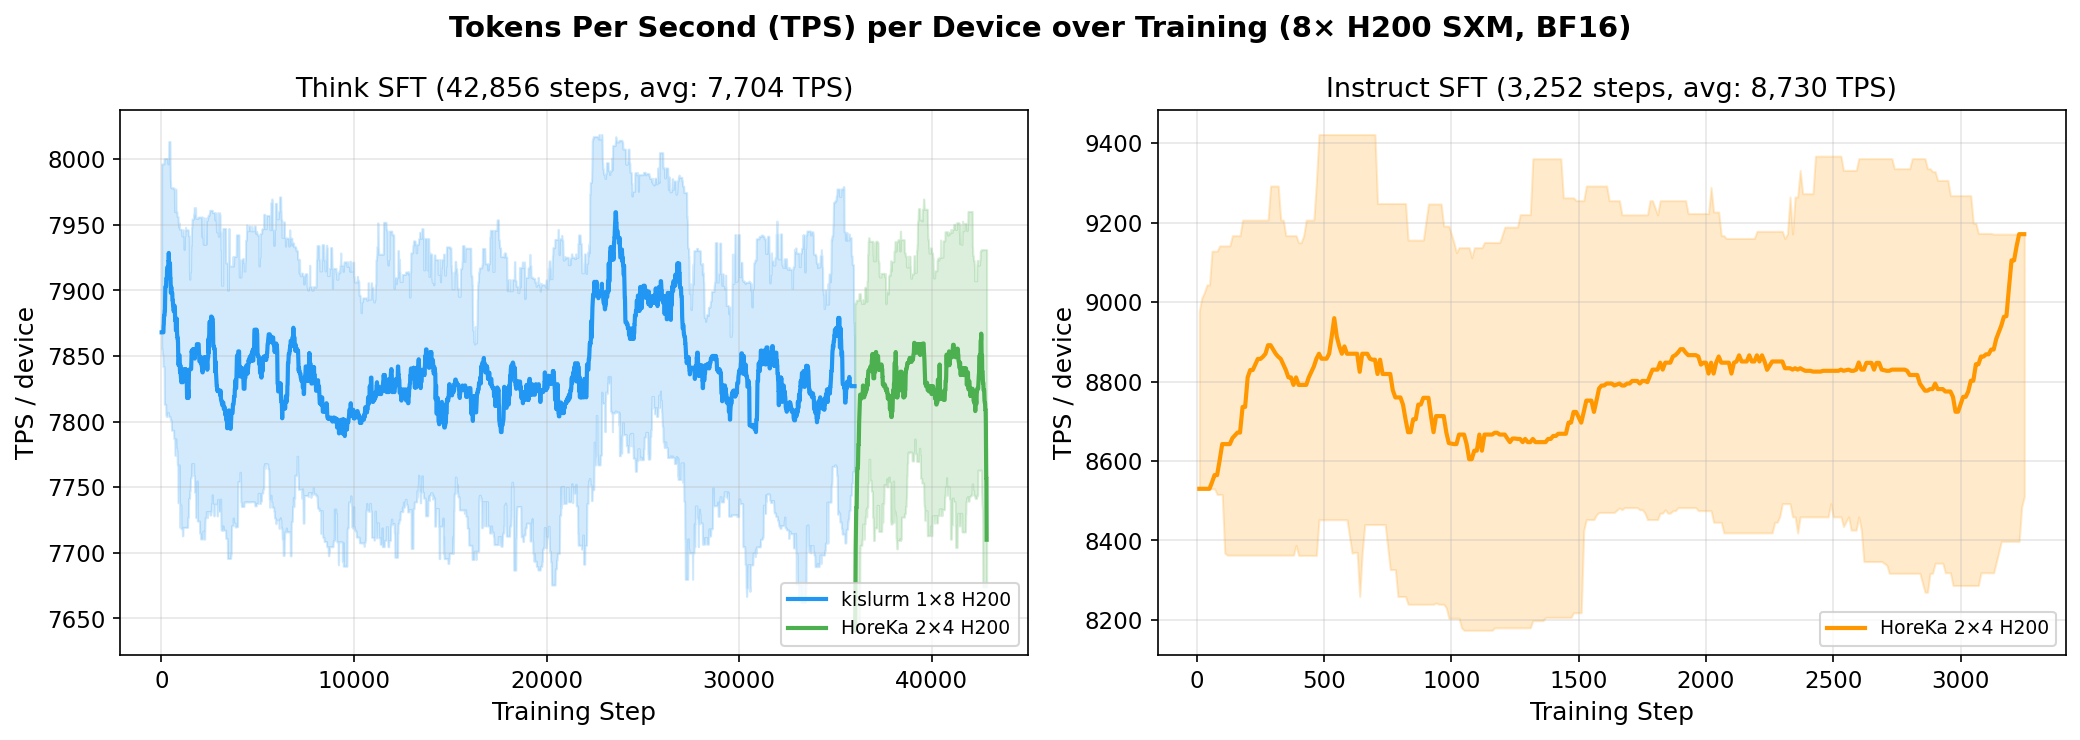
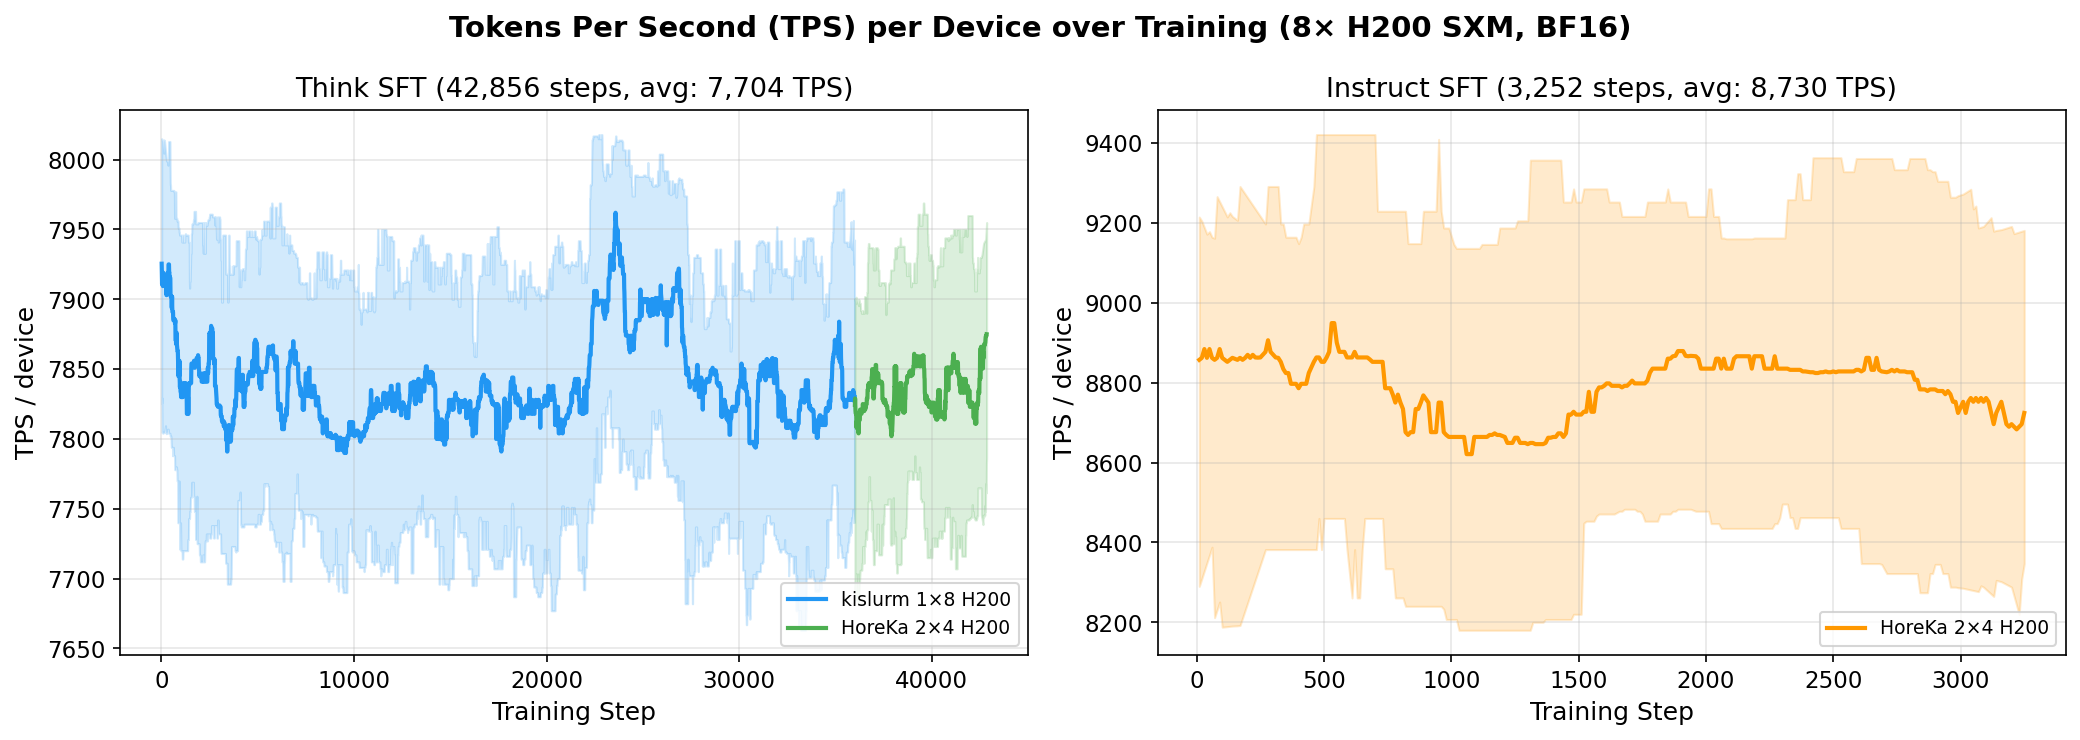
Fix edge-padding artifact in Instruct percentile bands
Use adaptive rolling window that shrinks near edges instead of
np.pad(mode='edge'), which caused p10/p90 bands to diverge from
the median at the start/end of the Instruct plot.

diff --git a/oellm/experiments/baseline_repro/scripts/plot_throughput.py b/oellm/experiments/baseline_repro/scripts/plot_throughput.py
@@ -263,16 +263,24 @@ def main():
         return steps[mask], {k: v[mask] for k, v in data.items()}
 
     def rolling_stats(values, window=50):
-        """Compute rolling median with 10th-90th percentile band."""
-        from numpy.lib.stride_tricks import sliding_window_view
-        if len(values) < window:
-            window = max(1, len(values) // 3)
-        pad = window // 2
-        padded = np.pad(values, (pad, window - 1 - pad), mode='edge')
-        windows = sliding_window_view(padded, window)
-        median = np.median(windows, axis=1)
-        p10 = np.percentile(windows, 10, axis=1)
-        p90 = np.percentile(windows, 90, axis=1)
+        """Compute rolling median with 10th-90th percentile band.
+
+        Uses adaptive window at edges to avoid padding artifacts.
+        """
+        n = len(values)
+        if n < window:
+            window = max(1, n // 3)
+        half = window // 2
+        median = np.empty(n)
+        p10 = np.empty(n)
+        p90 = np.empty(n)
+        for i in range(n):
+            lo = max(0, i - half)
+            hi = min(n, i + half + 1)
+            chunk = values[lo:hi]
+            median[i] = np.median(chunk)
+            p10[i] = np.percentile(chunk, 10)
+            p90[i] = np.percentile(chunk, 90)
         return median, p10, p90
 
     # Split Think v2 into kislurm and HoreKa segments for color-coding.
